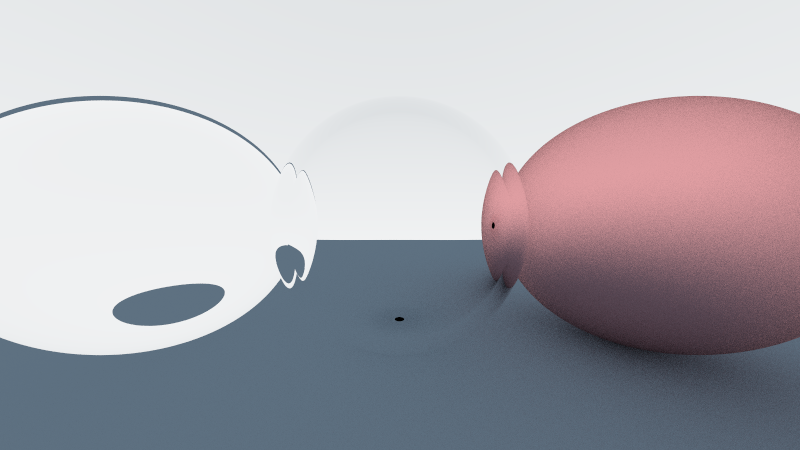
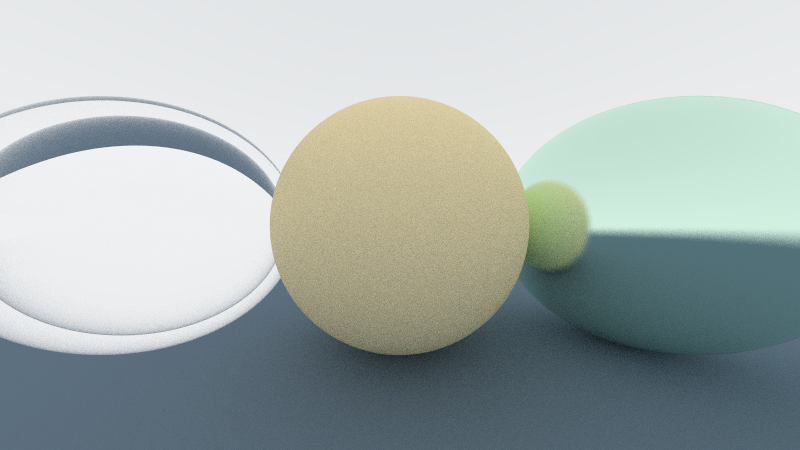
10.5 Modeling a Hollow Glass Sphere

diff --git a/main.cpp b/main.cpp
@@ -48,18 +48,31 @@ void test() {
     // World
     hittable_list world;
 
-    const auto material_ground = std::make_shared<lambertian>(
+    const auto material_lambertian_grey = std::make_shared<lambertian>(
         color(44.0 / 255.0, 62.0 / 255.0, 80.0 / 255.0));
-    const auto material_left = make_shared<dielectric>(1.1);
-    const auto material_center = make_shared<dielectric>(0.9);
-    const auto material_right = make_shared<metal>(
+    const auto material_lambertian_yellow = make_shared<lambertian>(
+        color(251.0 / 255.0, 215.0 / 255.0, 134.0 / 255.0));
+    const auto material_metal_green = make_shared<metal>(
+        color(198.0 / 255.0, 255.0 / 255.0, 221.0 / 255.0), 0.1);
+    const auto material_matel_red = make_shared<metal>(
         color(247.0 / 255.0, 121.0 / 255.0, 125.0 / 255.0), 0.9);
+    const auto material_dielectric_greater_one = make_shared<dielectric>(1.1);
+    const auto material_dielectric_less_one = make_shared<dielectric>(0.9);
+
+    const auto material_ground = material_lambertian_grey;
+    const auto material_left_outside = material_dielectric_greater_one;
+    const auto material_left_inside = material_dielectric_less_one;
+    const auto material_center = material_lambertian_yellow;
+    const auto material_right = material_metal_green;
 
     world.add(
         make_shared<sphere>(point3(0.0, -100.5, -1.0), 100.0, material_ground));
+    world.add(make_shared<sphere>(point3(-1.0, 0.0, -1.0), 0.5,
+                                  material_left_outside));
+    world.add(make_shared<sphere>(point3(-1.0, 0.0, -1.0), -0.4,
+                                  material_left_inside));
     world.add(
         make_shared<sphere>(point3(0.0, 0.0, -1.0), 0.5, material_center));
-    world.add(make_shared<sphere>(point3(-1.0, 0.0, -1.0), 0.5, material_left));
     world.add(make_shared<sphere>(point3(1.0, 0.0, -1.0), 0.5, material_right));
 
     // Camera

diff --git a/material.hpp b/material.hpp
@@ -71,7 +71,8 @@ public:
         const bool cannot_refract = refraction_ratio * sin_theta > 1.0;
         vec3 direction;
 
-        if (cannot_refract)
+        if (cannot_refract ||
+            reflectance(cos_theta, refraction_ratio) > random_double())
             direction = reflect(unit_direction, rec.normal);
         else
             direction = refract(unit_direction, rec.normal, refraction_ratio);
@@ -82,7 +83,15 @@ public:
     }
 
 public:
-    double ir;
+    double ir; // Index of Refraction
+
+private:
+    static double reflectance(double cosine, double ref_idx) {
+        // Use Schlick's approximation for reflectance.
+        auto r0 = (1 - ref_idx) / (1 + ref_idx);
+        r0 = r0 * r0;
+        return r0 + (1 - r0) * pow((1 - cosine), 5);
+    }
 };
 
 #endif
